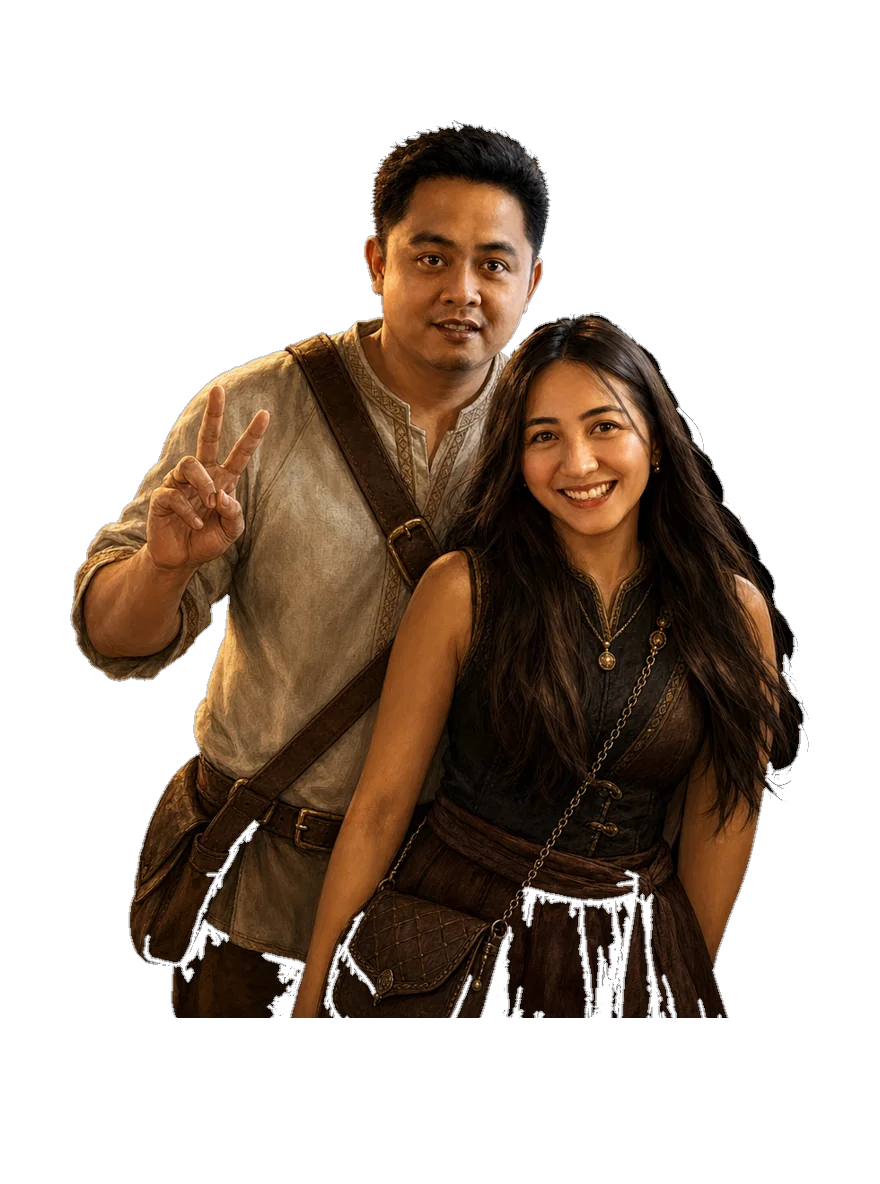
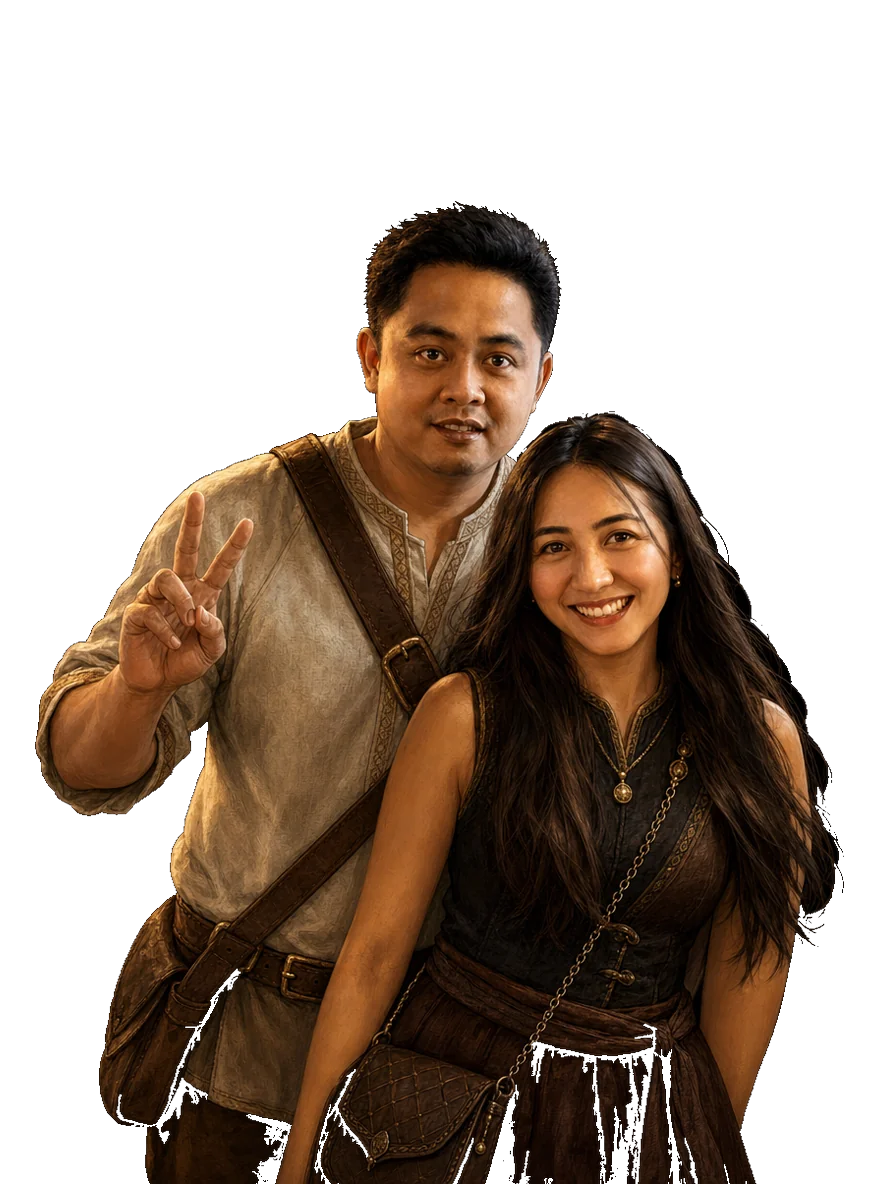
Fix customer catalog scroll, shorten duo blurb, and crop empty portrait padding.

diff --git a/frontend/src/views/CustomerIntro/index.vue b/frontend/src/views/CustomerIntro/index.vue
@@ -157,7 +157,7 @@ const mockCustomers: CustomerApiItem[] = [
     customerTypeId: 4,
     customerCode: 'CUSTOMER_WINDOW',
     customerName: '闲逛双客',
-    description: '一对和气的过路客，总是结伴进铺，驻足闲聊、夸货比划，却几乎从不落单。人虽好，帮不上买卖；偶发善心时会给两名护卫各恢复一些血值。',
+    description: '结伴闲逛却从不落单，偶尔会给两名护卫恢复血值。',
     imageUrl: '/images/customer/p4.webp',
     effectType: 'player_hp_up',
     effectValue: 2,
@@ -194,7 +194,8 @@ onMounted(async () => {
   color: var(--color-text-primary);
   position: relative;
   isolation: isolate;
-  overflow: hidden;
+  overflow-x: hidden;
+  overflow-y: auto;
 }
 .customer-page::before {
   content: '';
@@ -239,10 +240,7 @@ h1 {
 }
 .customer-scroll {
   margin-top: var(--space-2);
-  max-height: calc(100% - 70px);
-  overflow-y: auto;
-  padding: 130px var(--space-2) var(--space-2);
-
+  padding: 130px var(--space-2) 160px;
 }
 .customer-grid {
   display: grid;

diff --git a/frontend/src/utils/imageUrl.ts b/frontend/src/utils/imageUrl.ts
@@ -20,7 +20,7 @@ export function getImageUrl(path: string | null | undefined): string | null {
   const url = `${BACKEND_HTTP_BASE}${webpPath}`
   // 顾客立绘、卡面曾被长缓存；换 query 才能立刻拿到新图
   if (/\/images\/(customer|cards)\//i.test(webpPath)) {
-    return `${url}?v=20260826d`
+    return `${url}?v=20260826e`
   }
   return url
 }

diff --git a/backend/mdFile/游戏进行逻辑.md b/backend/mdFile/游戏进行逻辑.md
@@ -145,7 +145,7 @@
 
 ## 闲逛双客
 
-一对和气的过路客，总是结伴出现、从不拆开。人好，却几乎从不落单，因此很少成为本局要保护的顾客。
+结伴闲逛却从不落单，偶尔会给两名护卫恢复血值。
 
 效果：
 
